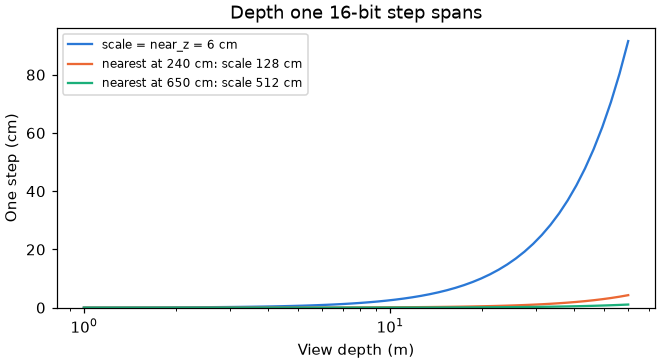
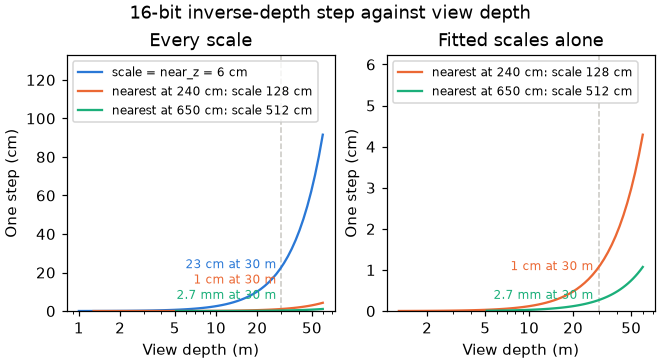
docs/math: the inverse-depth figure starts each curve at its scale, adds a fits-only panel and the 30 m reading (tidih)

diff --git a/launcher/tools/math/inverse_depth_figures.py b/launcher/tools/math/inverse_depth_figures.py
@@ -5,24 +5,54 @@ import sys
 
 sys.path.insert(0, str(pathlib.Path(__file__).resolve().parents[1]))
 from math_figures import PANEL_SIZE, PANEL_TITLE_ROOM, probe_into_folder
-from docs.plot_style import LABEL_SIZE, SLOTS, save, subplots
+from docs.plot_style import FAINT, LABEL_SIZE, SLOTS, save, subplots
+from matplotlib.ticker import FixedLocator, NullFormatter, ScalarFormatter
 
 PROBE = pathlib.Path(__file__).with_name("inverse_depth_figures_probe.c")
-WIDTH = 2  # panels' worth of width: the depths span two decades
+PANELS = 2
+CM_PER_M = 100
+MM_PER_CM = 10
+LABEL_GAP = 0.06  # labels at the guide, apart by this share of the panel's height
+HEADROOM = 1.45  # the y range over the highest curve, so the legend clears them
+DEPTH_TICKS = (1, 2, 5, 10, 20, 50)  # metres
+LABEL_SHIFT = 0.92  # labels sit just left of the guide
+
+
+def label(fit, near_z):
+    if fit["scale"] == near_z:
+        return f"scale = near_z = {fit['scale']:g} cm"
+    return f"nearest at {fit['nearest']:g} cm: scale {fit['scale']:g} cm"
+
+
+def at_guide(fit):
+    step = fit["at_guide"]
+    return f"{step:.0f} cm" if step >= 1 else f"{step * MM_PER_CM:.1f} mm"
+
+
+def panel(axis, fits, data, title):
+    guide = data["guide"] / CM_PER_M
+    axis.axvline(guide, color=FAINT, linestyle="--", linewidth=1)
+    for colour, fit in fits:
+        axis.plot([z / CM_PER_M for z in fit["depth"]], fit["step"], color=colour, label=label(fit, data["near_z"]))
+    axis.set_xscale("log")
+    top = HEADROOM * max(max(fit["step"]) for _, fit in fits)
+    axis.set(title=title, xlabel="View depth (m)", ylabel="One step (cm)", ylim=(0, top))
+    axis.xaxis.set_major_locator(FixedLocator(DEPTH_TICKS))
+    axis.xaxis.set_major_formatter(ScalarFormatter())
+    axis.xaxis.set_minor_formatter(NullFormatter())
+    for row, (colour, fit) in enumerate(sorted(fits, key=lambda f: -f[1]["at_guide"])):
+        y = max(fit["at_guide"], top * LABEL_GAP * (len(fits) - row))
+        axis.annotate(f"{at_guide(fit)} at {guide:g} m", (guide, fit["at_guide"]), xytext=(guide * LABEL_SHIFT, y),
+                      color=colour, fontsize=LABEL_SIZE, va="center", ha="right")
+    axis.legend(fontsize=LABEL_SIZE, loc="upper left")
 
 
 def step_figure(data, output):
-    fig, axes = subplots(1, 1, (PANEL_SIZE * WIDTH, PANEL_SIZE + PANEL_TITLE_ROOM))
-    axis = axes[0] if hasattr(axes, "__len__") else axes
-    for colour, fit in zip(SLOTS, data["fits"]):
-        if fit["scale"] == data["near_z"]:
-            label = f"scale = near_z = {fit['scale']:g} cm"
-        else:
-            label = f"nearest at {fit['nearest']:g} cm: scale {fit['scale']:g} cm"
-        axis.plot([z / 100 for z in fit["depth"]], fit["step"], color=colour, label=label)
-    axis.set_xscale("log")
-    axis.set(title="Depth one 16-bit step spans", xlabel="View depth (m)", ylabel="One step (cm)", ylim=(0, None))
-    axis.legend(fontsize=LABEL_SIZE, loc="upper left")
+    fig, axes = subplots(1, PANELS, (PANEL_SIZE * PANELS, PANEL_SIZE + PANEL_TITLE_ROOM))
+    fits = list(zip(SLOTS, data["fits"]))
+    panel(axes[0], fits, data, "Every scale")
+    panel(axes[1], [f for f in fits if f[1]["scale"] != data["near_z"]], data, "Fitted scales alone")
+    fig.suptitle("16-bit inverse-depth step against view depth")
     save(fig, output)
 
 

diff --git a/launcher/tools/math/inverse_depth_figures_probe.c b/launcher/tools/math/inverse_depth_figures_probe.c
@@ -13,23 +13,28 @@ static const float NEAR_Z = 6.0F;
 static const float NEAREST[] = {6.0F, 240.0F, 650.0F};
 static const float DEPTH_FIRST = 100.0F;
 static const float DEPTH_LAST = 6000.0F;
+/* The ground's distance from a view 26 m up, where the figure reads each step. */
+static const float GUIDE_DEPTH = 3000.0F;
 
 enum { DEPTH_SAMPLES = 64 };
 
 int
 main(void) {
     const float code_max = (float)UINT16_MAX;
-    const float ratio = powf(DEPTH_LAST / DEPTH_FIRST, 1.0F / (float)(DEPTH_SAMPLES - 1));
-    printf("{\"near_z\":%g,\"fits\":[", (double)NEAR_Z);
+    printf("{\"near_z\":%g,\"guide\":%g,\"fits\":[", (double)NEAR_Z, (double)GUIDE_DEPTH);
     for (size_t f = 0; f < sizeof NEAREST / sizeof NEAREST[0]; f++) {
         const float scale = inverse_depth_scale_fit(NEAR_Z, NEAREST[f]);
-        printf("%s{\"nearest\":%g,\"scale\":%g,\"depth\":[", f ? "," : "", (double)NEAREST[f], (double)scale);
-        float z = DEPTH_FIRST;
+        /* A code stands for depths at or past its scale only. */
+        const float first = fmaxf(DEPTH_FIRST, scale);
+        const float ratio = powf(DEPTH_LAST / first, 1.0F / (float)(DEPTH_SAMPLES - 1));
+        printf("%s{\"nearest\":%g,\"scale\":%g,\"at_guide\":%g,\"depth\":[", f ? "," : "", (double)NEAREST[f],
+               (double)scale, 1.0 / (double)inverse_depth_steps_per_unit(scale, code_max, GUIDE_DEPTH));
+        float z = first;
         for (int i = 0; i < DEPTH_SAMPLES; i++, z *= ratio) {
             printf("%s%g", i ? "," : "", (double)z);
         }
         printf("],\"step\":[");
-        z = DEPTH_FIRST;
+        z = first;
         for (int i = 0; i < DEPTH_SAMPLES; i++, z *= ratio) {
             printf("%s%g", i ? "," : "", 1.0 / (double)inverse_depth_steps_per_unit(scale, code_max, z));
         }
